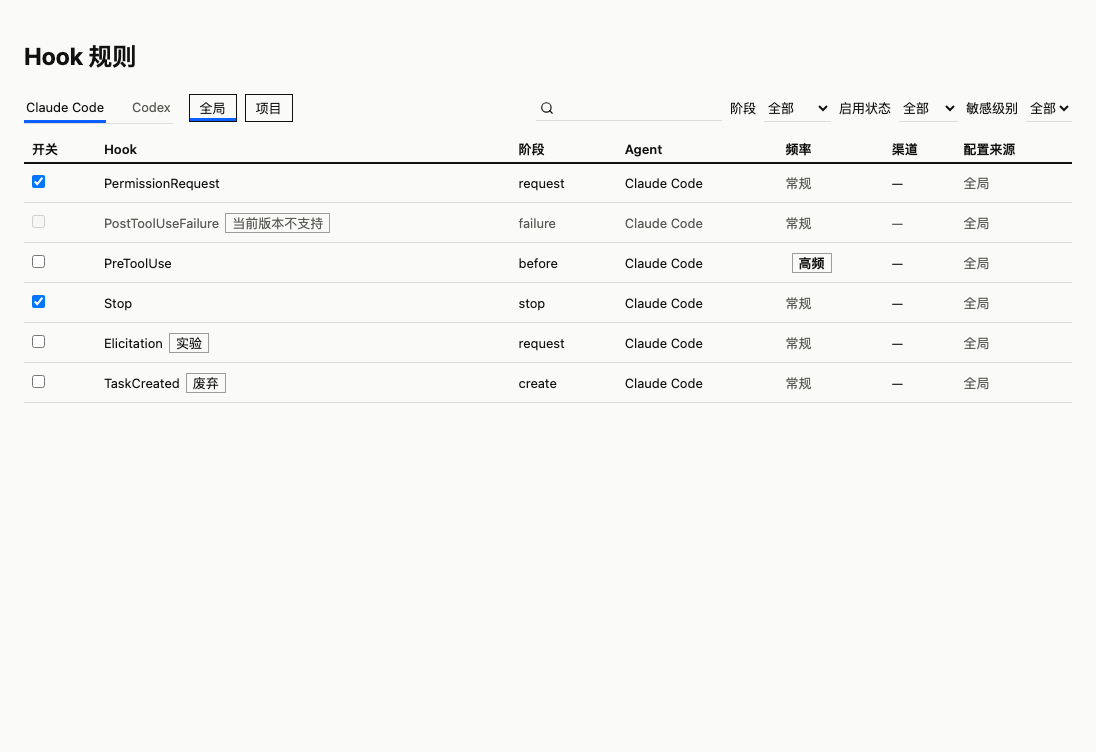
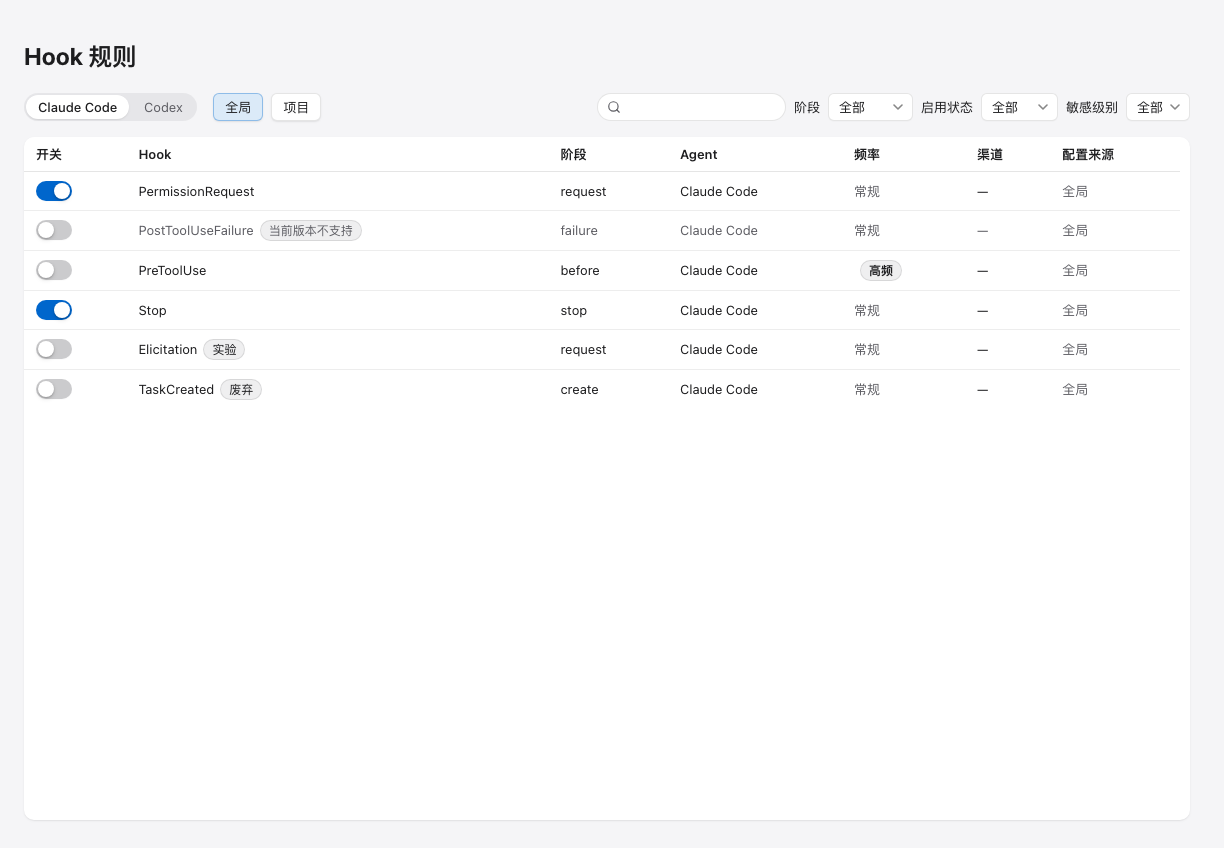
docs(readme): refresh screenshots to the current v2 UI
Workbench + integrations side by side, rules page at 1440x900 — all
from today's e2e snapshots (the old hook-rules.png predated the
five-page shell reorg).

diff --git a/README.md b/README.md
@@ -2,7 +2,13 @@
 
 CC Reminder 是一个跨平台桌面应用：它通过 Claude Code 和 Codex 的生命周期 Hook 捕获事件，在本地完成规则匹配、隐私过滤与排队，然后把通知发送到你的钉钉群或企业微信群。任务完成、等待确认、需要授权时，你在群里第一时间知道——而审批、停止等操作仍然完全留在 Agent 原有流程中。
 
-![通知规则页面](docs/images/hook-rules.png)
+<p align="center">
+  <img src="docs/images/workbench.png" alt="工作台：状态概览与通知历史" width="49%" />
+  <img src="docs/images/integrations.png" alt="集成：通知来源（Claude Code / Codex）与通知去向（钉钉 / 企业微信）" width="49%" />
+</p>
+<p align="center">
+  <img src="docs/images/hook-rules.png" alt="通知规则：按事件配置过滤、静默、聚合与投递目标" width="70%" />
+</p>
 
 ## 基本信息
 
